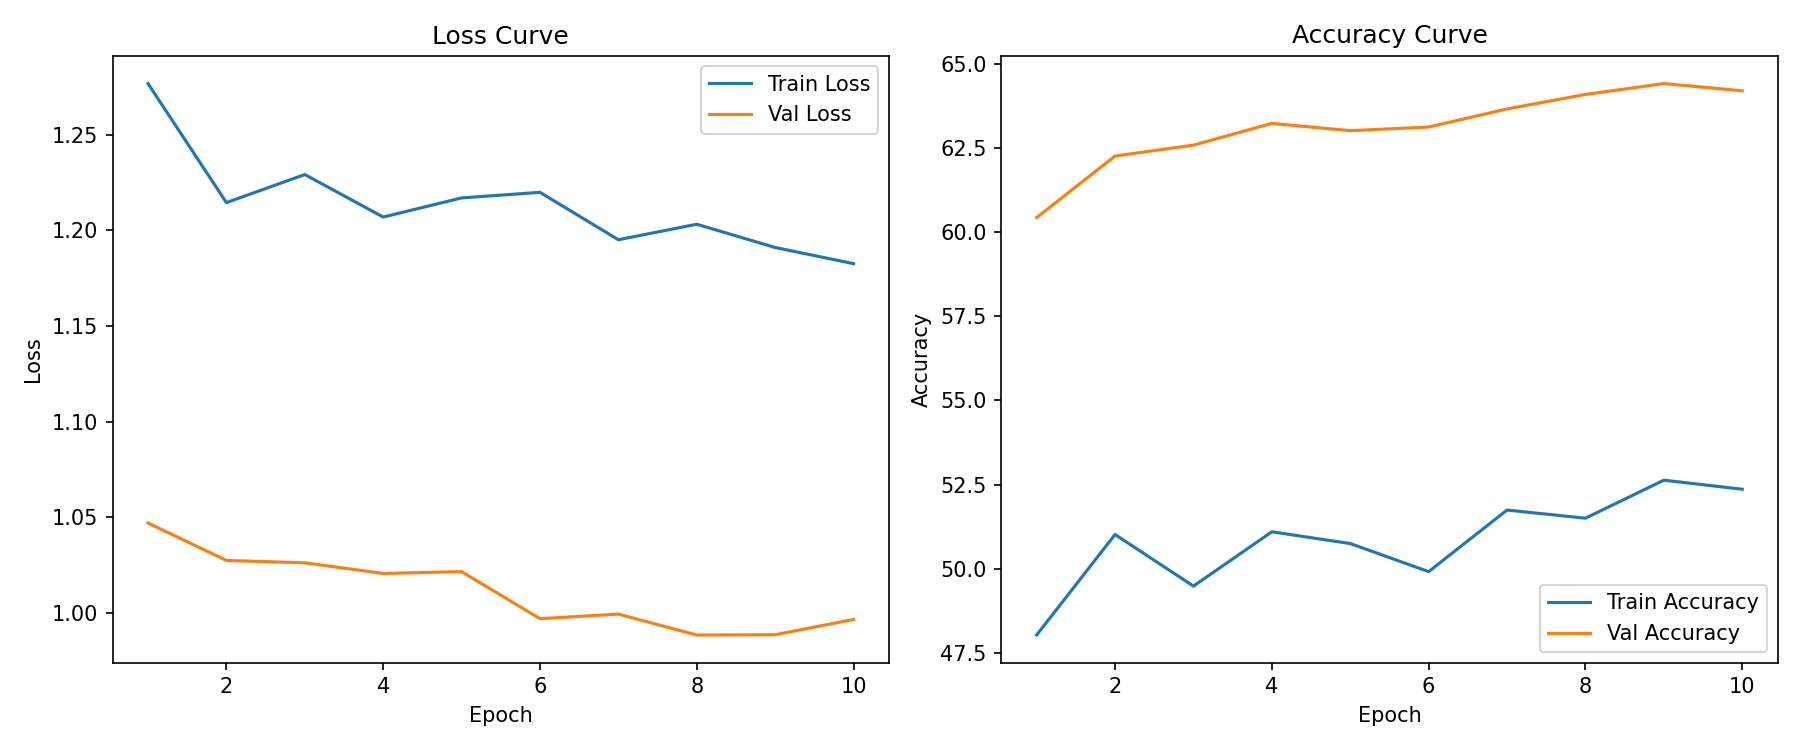
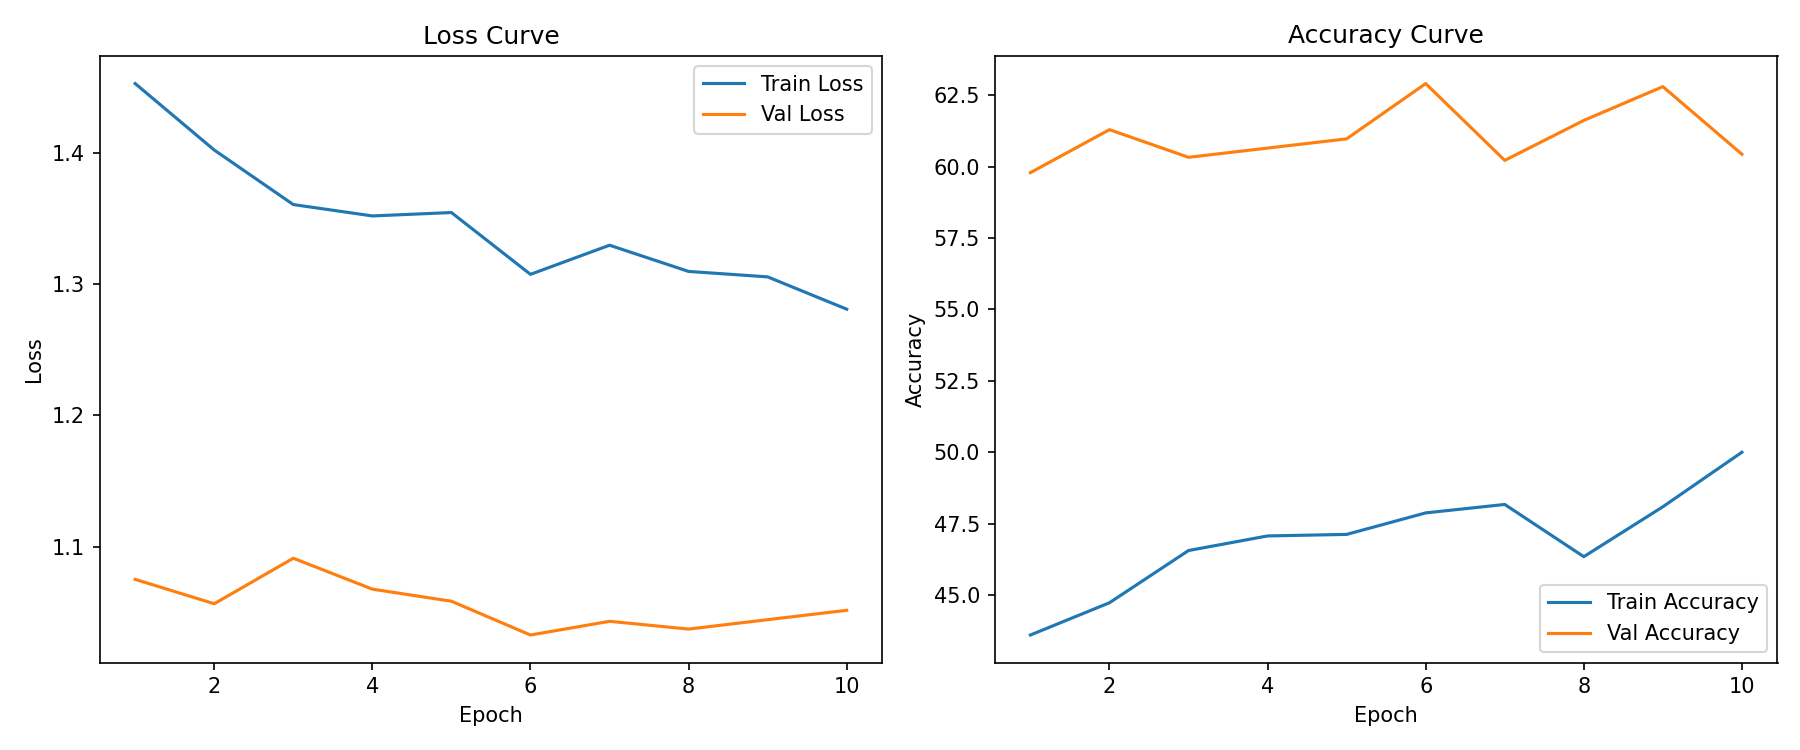
updated some of the code

diff --git a/src/data.py b/src/data.py
@@ -1,6 +1,6 @@
 import torch
 from torchvision import transforms, datasets
-from torch.utils.data import random_split, DataLoader
+from torch.utils.data import DataLoader, Subset
 from src.config import *
 def get_transforms():
     train_transform = transforms.Compose([
@@ -25,24 +25,26 @@ def get_transforms():
 def get_dataloaders(data_dir, val_split=0.2, batch_size=BATCH_SIZE, seed=42):
     train_transform, val_transform = get_transforms()
 
-    full_dataset = datasets.ImageFolder(data_dir, transform=train_transform)
+    train_dataset = datasets.ImageFolder(data_dir, transform=train_transform)
+    val_dataset = datasets.ImageFolder(data_dir, transform=val_transform)
 
-    val_size = int(len(full_dataset) * val_split)
-    train_size = len(full_dataset) - val_size
+    total_size = len(train_dataset)
+    val_size = int(total_size * val_split)
+    train_size = total_size - val_size
 
     generator = torch.Generator().manual_seed(seed)
-    train_dataset, val_dataset = random_split(
-        full_dataset, [train_size, val_size], generator=generator
-        )
-    
-    val_dataset.dataset.transform = val_transform       #change the original dataset transform into validation transform
+    indices = torch.randperm(total_size, generator=generator).tolist()
+    train_indices = indices[:train_size]
+    val_indices = indices[train_size:]
 
-    train_loader  = DataLoader(train_dataset, shuffle=True, batch_size=batch_size)
-    val_loader = DataLoader(val_dataset, batch_size=BATCH_SIZE, shuffle=False)
+    train_subset = Subset(train_dataset, train_indices)
+    val_subset = Subset(val_dataset, val_indices)
 
-    class_name = full_dataset.classes
+    train_loader = DataLoader(train_subset, shuffle=True, batch_size=batch_size)
+    val_loader = DataLoader(val_subset, shuffle=False, batch_size=batch_size)
+    class_names = train_dataset.classes
+    return train_loader, val_loader, class_names, train_size, val_size
 
-    return train_loader, val_loader, class_name, train_size, val_size
 
 if __name__ == "__main__":
     train_loader, val_loader, class_names, train_size, val_size = get_dataloaders("data")
@@ -52,5 +54,5 @@ if __name__ == "__main__":
     print(f"Val size  : {val_size}")
 
     images, labels = next(iter(train_loader))
-    print(f"Batch shape: {images.shape}")   # expect [32, 3, 128, 128]
+    print(f"Batch shape: {images.shape}")   
     print(f"Labels     : {labels}")

diff --git a/src/train.py b/src/train.py
@@ -5,7 +5,7 @@ import os
 import mlflow.pytorch
 
 from src.data import *
-from src.config import *
+import src.config as cfg
 from src.model import WasteCNN
 from src.plot import plot_training_curves
 
@@ -13,41 +13,41 @@ def train():
     train_loader, val_loader, class_names, train_size, val_size = get_dataloaders("data")
     print(f"Train: {train_size} | Val: {val_size} | Classes: {class_names}")
 
-    model = WasteCNN().to(DEVICE)
+    model = WasteCNN().to(cfg.DEVICE)
     if os.path.exists("models/best_model.pth"):
         model.load_state_dict(torch.load("models/best_model.pth"))
         print("Loaded previous best model")
 
     criterion = nn.CrossEntropyLoss()
-    optimizer = torch.optim.Adam(model.parameters(), lr=LR)
+    optimizer = torch.optim.Adam(model.parameters(), lr=cfg.LR)
 
     train_losses = []
     val_losses = []
     train_accs = []
     val_accs = []
 
-    mlflow.set_experiment(EXPERIMENT_NAME)
+    mlflow.set_experiment(cfg.EXPERIMENT_NAME)
 
     os.makedirs("models", exist_ok=True)
 
     best_acc = float('-inf')
     patience_counter = 0
 
-    with mlflow.start_run(run_name=f"wasteCNN_lr{LR}_dropout{DROPOUT}5"):
+    with mlflow.start_run(run_name=cfg.RUN_NAME):
 
         mlflow.log_params({
-            "epochs":        EPOCHS,
-            "learning_rate": LR,
-            "dropout":       DROPOUT
+            "epochs":        cfg.EPOCHS,
+            "learning_rate": cfg.LR,
+            "dropout":       cfg.DROPOUT
         })
 
-        for epoch in range(EPOCHS):
+        for epoch in range(cfg.EPOCHS):
 
             model.train()
-            running_loss, correct = 0, 0
+            running_loss, correct = 0, 0    
 
             for images, labels in train_loader:
-                images, labels = images.to(DEVICE), labels.to(DEVICE)
+                images, labels = images.to(cfg.DEVICE), labels.to(cfg.DEVICE)
                 optimizer.zero_grad()
                 output = model(images)
                 loss = criterion(output, labels)
@@ -68,7 +68,7 @@ def train():
 
             with torch.no_grad():
                 for images, labels in val_loader:
-                    images, labels = images.to(DEVICE), labels.to(DEVICE)
+                    images, labels = images.to(cfg.DEVICE), labels.to(cfg.DEVICE)
                     output = model(images)
                     loss = criterion(output, labels)
                     val_loss_total += loss.item()
@@ -87,7 +87,7 @@ def train():
                 "val_acc":    val_acc,
             }, step=epoch)
 
-            print(f"Epoch {epoch+1:02d}/{EPOCHS} | "
+            print(f"Epoch {epoch+1:02d}/{cfg.EPOCHS} | "
                   f"Train Loss: {train_loss:.4f} | Train Acc: {train_acc:.2f}% | "
                   f"Val Loss: {val_loss:.4f} | Val Acc: {val_acc:.2f}%")
             
@@ -99,7 +99,7 @@ def train():
             else:
                 patience_counter += 1
             
-            if patience_counter >= PATIENCE:
+            if patience_counter >= cfg.PATIENCE:
                 print(f"\n  Early stopping at epoch {epoch+1}")
                 break
                 

diff --git a/src/evaluate.py b/src/evaluate.py
@@ -40,9 +40,8 @@ def evaluate(model_path):
     plt.savefig(cm_path, dpi=150)
     plt.close()
 
-    # --- Log to MLflow ---
     mlflow.set_experiment(cfg.EXPERIMENT_NAME)
-    with mlflow.start_run(run_name="evaluation"):
+    with mlflow.start_run(run_name=cfg.RUN_NAME):
         mlflow.log_artifact(cm_path)
         print("Logged to MLflow")
 

diff --git a/src/config.py b/src/config.py
@@ -15,5 +15,6 @@ PATIENCE = 4
 
 # eval
 EXPERIMENT_NAME = "waste-classification-cnn"
+RUN_NAME = f"wasteCNN_lr{LR}_dropout{DROPOUT}"
 
 